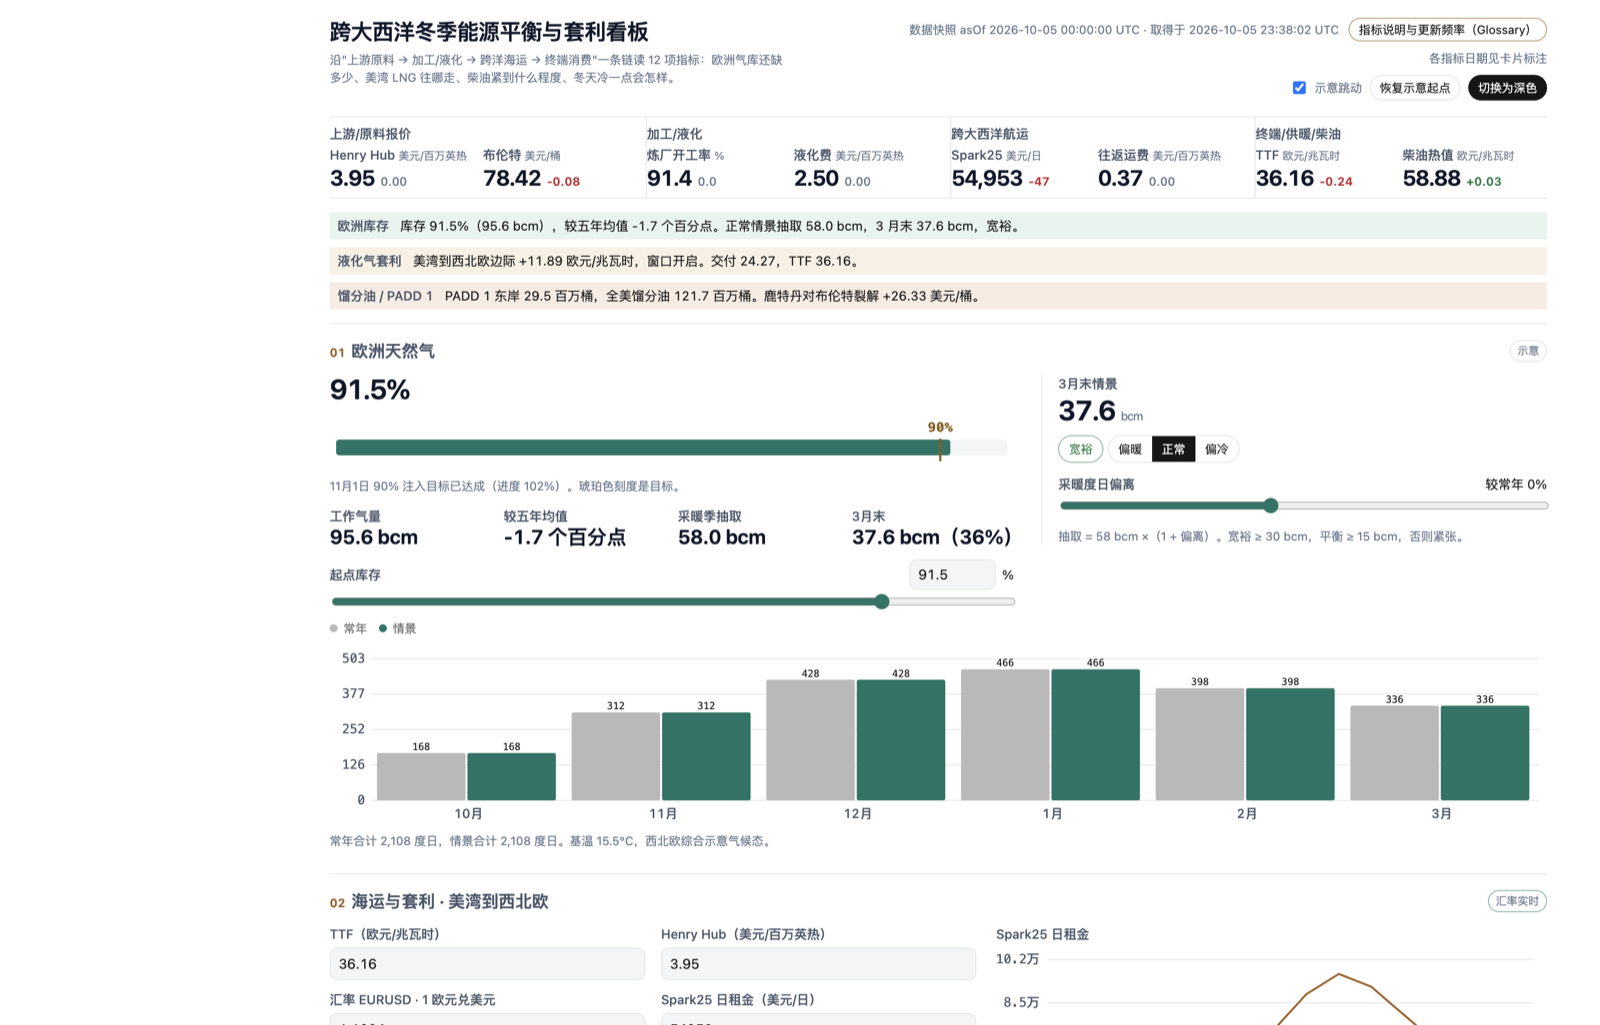
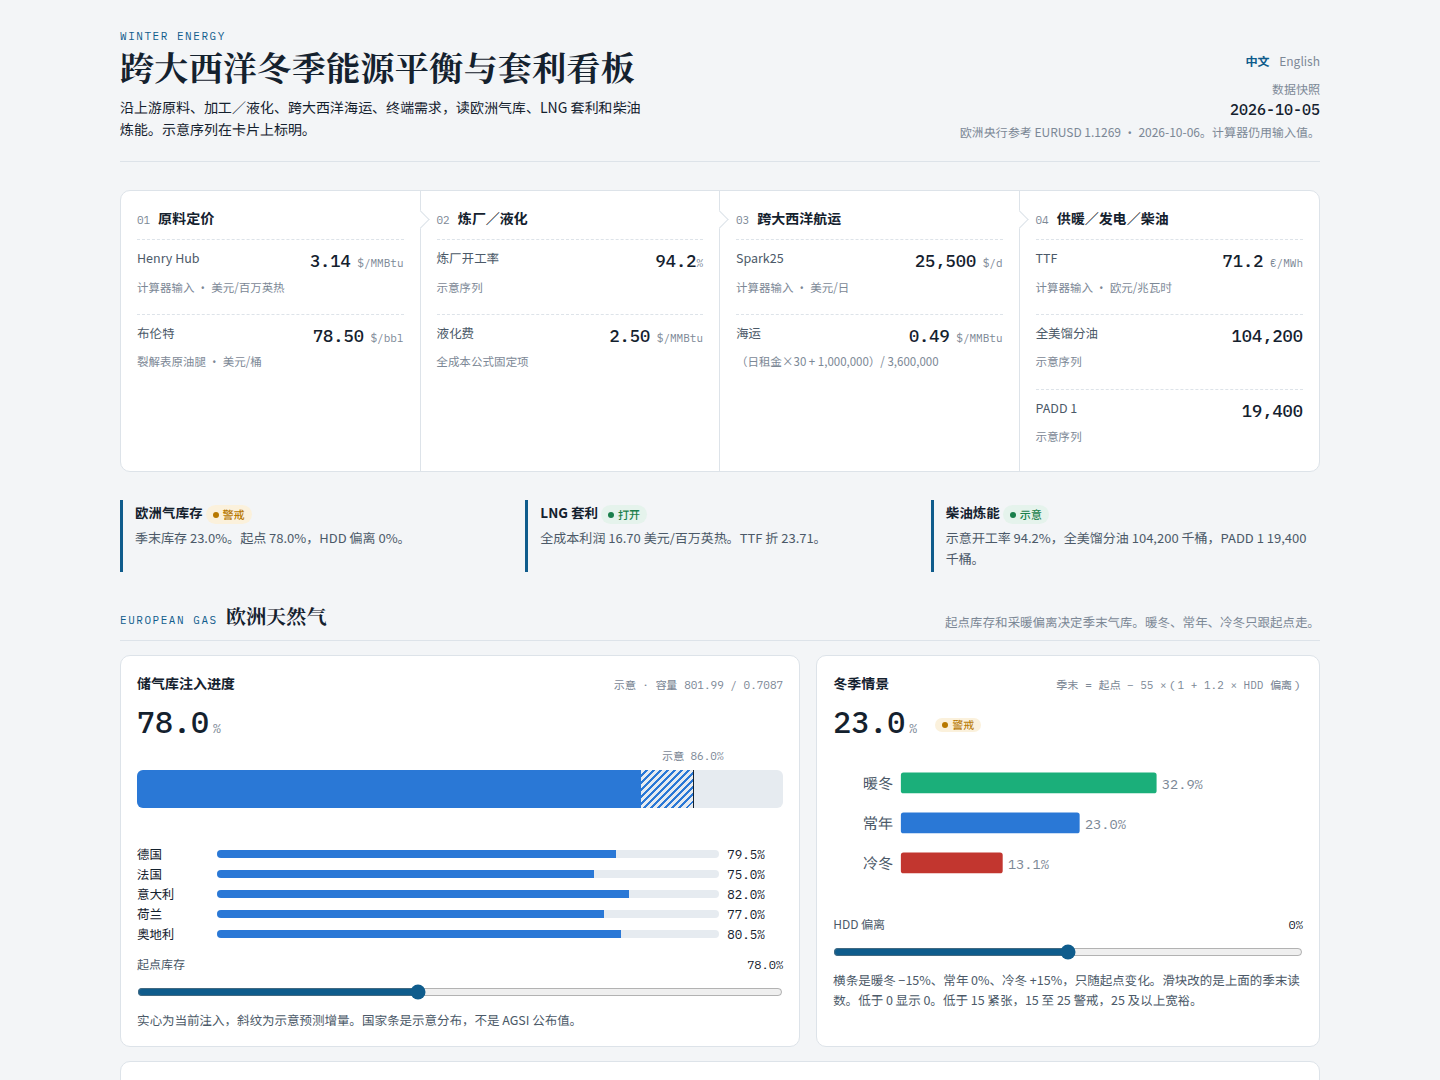
Refresh Transatlantic Energy copy and cover for the rebuilt desk.

diff --git a/docs/js/app.js b/docs/js/app.js
@@ -65,7 +65,7 @@
         "A local investment journal. Log trades, keep principles, review the quality of decisions — data stays in the browser.",
       p_energy_title: "Transatlantic Energy",
       p_energy_desc:
-        "Winter energy balance and LNG arbitrage across the Atlantic — TTF vs Henry Hub, inventory, and the window that opens the trade.",
+        "A bilingual winter desk: European storage, USG–NWE LNG arb, and distillate — from feedstock through Atlantic freight.",
       p_sql_title: "SQL Genius",
       p_sql_desc: "Ask a business question in plain language — get the metric, the query, and the answer.",
       p_air_title: "Airfield Hazards",
@@ -210,7 +210,7 @@
         "An editorial journal with a magazine layout. Volume 01 now holds twenty essays — cycles, risk, investing, and how to decide.",
       proj_notes_tech: "Next.js, TypeScript, Python",
       proj_energy_desc:
-        "A decision desk for winter energy: 12 indicators along the chain from feedstock to heating. Read European storage, Gulf Coast LNG, distillate tightness, and how a colder winter changes the TTF–Henry Hub window.",
+        "One desk for the winter chain. Storage versus heating-degree days, a USG-to-NWE LNG waterfall, and distillate tightness. Chinese and English. Snapshot numbers live in data.json; ECB FX via Frankfurter is a footnote, not the trade.",
       proj_energy_tech: "HTML, JSON, Frankfurter (ECB FX)",
       proj_zen_desc:
         "A local investment journal for logging trades, keeping principles, and reviewing the quality of decisions. Dashboard, trade log, diary, and review filters — stored in the browser. No signup, no cloud.",
@@ -297,7 +297,7 @@
       p_zen_title: "观市",
       p_zen_desc: "极简本地投资手帐。记录交易、沉淀原则、复盘决策质量。数据只存在浏览器里，无需注册。",
       p_energy_title: "跨大西洋能源看板",
-      p_energy_desc: "冬季能源平衡与跨大西洋 LNG 套利：TTF 对 Henry Hub、库存，以及窗口何时打开。",
+      p_energy_desc: "中英双语的冬季能源决策台：欧洲气库、美湾到西北欧 LNG 套利、柴油炼能——从原料读到跨大西洋海运。",
       p_sql_title: "SQL Genius",
       p_sql_desc: "用白话提出业务问题，同时得到指标、查询语句和结果。",
       p_air_title: "机场鸟击风险",
@@ -416,7 +416,7 @@
         "极简杂志风的私人读书笔记：纸张色、大留白、卡片错落。目前第一辑二十篇，记录周期、风险、投资与如何做判断。",
       proj_notes_tech: "Next.js、TypeScript、Python",
       proj_energy_desc:
-        "冬季能源的决策台：沿原料到供暖链路上的 12 项指标。看欧洲库存、墨西哥湾 LNG、馏分油紧度，以及更冷的冬天如何改写 TTF–Henry Hub 窗口。",
+        "一张决策台读完冬季链路：气库对采暖度日、美湾到西北欧的 LNG 套利瀑布、柴油炼能。中英切换。快照在 data.json；欧洲央行汇率只作旁注，不改写交易口径。",
       proj_energy_tech: "HTML、JSON、Frankfurter（ECB 汇率）",
       proj_zen_desc:
         "极简本地投资手帐：仪表盘、交易记录、原则、日记与复盘。用来沉淀决策质量。数据只存在浏览器里，无需注册。",

diff --git a/docs/js/site.js b/docs/js/site.js
@@ -65,7 +65,7 @@
         "A local investment journal. Log trades, keep principles, review the quality of decisions — data stays in the browser.",
       p_energy_title: "Transatlantic Energy",
       p_energy_desc:
-        "Winter energy balance and LNG arbitrage across the Atlantic — TTF vs Henry Hub, inventory, and the window that opens the trade.",
+        "A bilingual winter desk: European storage, USG–NWE LNG arb, and distillate — from feedstock through Atlantic freight.",
       p_sql_title: "SQL Genius",
       p_sql_desc: "Ask a business question in plain language — get the metric, the query, and the answer.",
       p_air_title: "Airfield Hazards",
@@ -210,7 +210,7 @@
         "An editorial journal with a magazine layout. Volume 01 now holds twenty essays — cycles, risk, investing, and how to decide.",
       proj_notes_tech: "Next.js, TypeScript, Python",
       proj_energy_desc:
-        "A decision desk for winter energy: 12 indicators along the chain from feedstock to heating. Read European storage, Gulf Coast LNG, distillate tightness, and how a colder winter changes the TTF–Henry Hub window.",
+        "One desk for the winter chain. Storage versus heating-degree days, a USG-to-NWE LNG waterfall, and distillate tightness. Chinese and English. Snapshot numbers live in data.json; ECB FX via Frankfurter is a footnote, not the trade.",
       proj_energy_tech: "HTML, JSON, Frankfurter (ECB FX)",
       proj_zen_desc:
         "A local investment journal for logging trades, keeping principles, and reviewing the quality of decisions. Dashboard, trade log, diary, and review filters — stored in the browser. No signup, no cloud.",
@@ -297,7 +297,7 @@
       p_zen_title: "观市",
       p_zen_desc: "极简本地投资手帐。记录交易、沉淀原则、复盘决策质量。数据只存在浏览器里，无需注册。",
       p_energy_title: "跨大西洋能源看板",
-      p_energy_desc: "冬季能源平衡与跨大西洋 LNG 套利：TTF 对 Henry Hub、库存，以及窗口何时打开。",
+      p_energy_desc: "中英双语的冬季能源决策台：欧洲气库、美湾到西北欧 LNG 套利、柴油炼能——从原料读到跨大西洋海运。",
       p_sql_title: "SQL Genius",
       p_sql_desc: "用白话提出业务问题，同时得到指标、查询语句和结果。",
       p_air_title: "机场鸟击风险",
@@ -416,7 +416,7 @@
         "极简杂志风的私人读书笔记：纸张色、大留白、卡片错落。目前第一辑二十篇，记录周期、风险、投资与如何做判断。",
       proj_notes_tech: "Next.js、TypeScript、Python",
       proj_energy_desc:
-        "冬季能源的决策台：沿原料到供暖链路上的 12 项指标。看欧洲库存、墨西哥湾 LNG、馏分油紧度，以及更冷的冬天如何改写 TTF–Henry Hub 窗口。",
+        "一张决策台读完冬季链路：气库对采暖度日、美湾到西北欧的 LNG 套利瀑布、柴油炼能。中英切换。快照在 data.json；欧洲央行汇率只作旁注，不改写交易口径。",
       proj_energy_tech: "HTML、JSON、Frankfurter（ECB 汇率）",
       proj_zen_desc:
         "极简本地投资手帐：仪表盘、交易记录、原则、日记与复盘。用来沉淀决策质量。数据只存在浏览器里，无需注册。",

diff --git a/js/app.js b/js/app.js
@@ -65,7 +65,7 @@
         "A local investment journal. Log trades, keep principles, review the quality of decisions — data stays in the browser.",
       p_energy_title: "Transatlantic Energy",
       p_energy_desc:
-        "Winter energy balance and LNG arbitrage across the Atlantic — TTF vs Henry Hub, inventory, and the window that opens the trade.",
+        "A bilingual winter desk: European storage, USG–NWE LNG arb, and distillate — from feedstock through Atlantic freight.",
       p_sql_title: "SQL Genius",
       p_sql_desc: "Ask a business question in plain language — get the metric, the query, and the answer.",
       p_air_title: "Airfield Hazards",
@@ -210,7 +210,7 @@
         "An editorial journal with a magazine layout. Volume 01 now holds twenty essays — cycles, risk, investing, and how to decide.",
       proj_notes_tech: "Next.js, TypeScript, Python",
       proj_energy_desc:
-        "A decision desk for winter energy: 12 indicators along the chain from feedstock to heating. Read European storage, Gulf Coast LNG, distillate tightness, and how a colder winter changes the TTF–Henry Hub window.",
+        "One desk for the winter chain. Storage versus heating-degree days, a USG-to-NWE LNG waterfall, and distillate tightness. Chinese and English. Snapshot numbers live in data.json; ECB FX via Frankfurter is a footnote, not the trade.",
       proj_energy_tech: "HTML, JSON, Frankfurter (ECB FX)",
       proj_zen_desc:
         "A local investment journal for logging trades, keeping principles, and reviewing the quality of decisions. Dashboard, trade log, diary, and review filters — stored in the browser. No signup, no cloud.",
@@ -297,7 +297,7 @@
       p_zen_title: "观市",
       p_zen_desc: "极简本地投资手帐。记录交易、沉淀原则、复盘决策质量。数据只存在浏览器里，无需注册。",
       p_energy_title: "跨大西洋能源看板",
-      p_energy_desc: "冬季能源平衡与跨大西洋 LNG 套利：TTF 对 Henry Hub、库存，以及窗口何时打开。",
+      p_energy_desc: "中英双语的冬季能源决策台：欧洲气库、美湾到西北欧 LNG 套利、柴油炼能——从原料读到跨大西洋海运。",
       p_sql_title: "SQL Genius",
       p_sql_desc: "用白话提出业务问题，同时得到指标、查询语句和结果。",
       p_air_title: "机场鸟击风险",
@@ -416,7 +416,7 @@
         "极简杂志风的私人读书笔记：纸张色、大留白、卡片错落。目前第一辑二十篇，记录周期、风险、投资与如何做判断。",
       proj_notes_tech: "Next.js、TypeScript、Python",
       proj_energy_desc:
-        "冬季能源的决策台：沿原料到供暖链路上的 12 项指标。看欧洲库存、墨西哥湾 LNG、馏分油紧度，以及更冷的冬天如何改写 TTF–Henry Hub 窗口。",
+        "一张决策台读完冬季链路：气库对采暖度日、美湾到西北欧的 LNG 套利瀑布、柴油炼能。中英切换。快照在 data.json；欧洲央行汇率只作旁注，不改写交易口径。",
       proj_energy_tech: "HTML、JSON、Frankfurter（ECB 汇率）",
       proj_zen_desc:
         "极简本地投资手帐：仪表盘、交易记录、原则、日记与复盘。用来沉淀决策质量。数据只存在浏览器里，无需注册。",

diff --git a/js/site.js b/js/site.js
@@ -65,7 +65,7 @@
         "A local investment journal. Log trades, keep principles, review the quality of decisions — data stays in the browser.",
       p_energy_title: "Transatlantic Energy",
       p_energy_desc:
-        "Winter energy balance and LNG arbitrage across the Atlantic — TTF vs Henry Hub, inventory, and the window that opens the trade.",
+        "A bilingual winter desk: European storage, USG–NWE LNG arb, and distillate — from feedstock through Atlantic freight.",
       p_sql_title: "SQL Genius",
       p_sql_desc: "Ask a business question in plain language — get the metric, the query, and the answer.",
       p_air_title: "Airfield Hazards",
@@ -210,7 +210,7 @@
         "An editorial journal with a magazine layout. Volume 01 now holds twenty essays — cycles, risk, investing, and how to decide.",
       proj_notes_tech: "Next.js, TypeScript, Python",
       proj_energy_desc:
-        "A decision desk for winter energy: 12 indicators along the chain from feedstock to heating. Read European storage, Gulf Coast LNG, distillate tightness, and how a colder winter changes the TTF–Henry Hub window.",
+        "One desk for the winter chain. Storage versus heating-degree days, a USG-to-NWE LNG waterfall, and distillate tightness. Chinese and English. Snapshot numbers live in data.json; ECB FX via Frankfurter is a footnote, not the trade.",
       proj_energy_tech: "HTML, JSON, Frankfurter (ECB FX)",
       proj_zen_desc:
         "A local investment journal for logging trades, keeping principles, and reviewing the quality of decisions. Dashboard, trade log, diary, and review filters — stored in the browser. No signup, no cloud.",
@@ -297,7 +297,7 @@
       p_zen_title: "观市",
       p_zen_desc: "极简本地投资手帐。记录交易、沉淀原则、复盘决策质量。数据只存在浏览器里，无需注册。",
       p_energy_title: "跨大西洋能源看板",
-      p_energy_desc: "冬季能源平衡与跨大西洋 LNG 套利：TTF 对 Henry Hub、库存，以及窗口何时打开。",
+      p_energy_desc: "中英双语的冬季能源决策台：欧洲气库、美湾到西北欧 LNG 套利、柴油炼能——从原料读到跨大西洋海运。",
       p_sql_title: "SQL Genius",
       p_sql_desc: "用白话提出业务问题，同时得到指标、查询语句和结果。",
       p_air_title: "机场鸟击风险",
@@ -416,7 +416,7 @@
         "极简杂志风的私人读书笔记：纸张色、大留白、卡片错落。目前第一辑二十篇，记录周期、风险、投资与如何做判断。",
       proj_notes_tech: "Next.js、TypeScript、Python",
       proj_energy_desc:
-        "冬季能源的决策台：沿原料到供暖链路上的 12 项指标。看欧洲库存、墨西哥湾 LNG、馏分油紧度，以及更冷的冬天如何改写 TTF–Henry Hub 窗口。",
+        "一张决策台读完冬季链路：气库对采暖度日、美湾到西北欧的 LNG 套利瀑布、柴油炼能。中英切换。快照在 data.json；欧洲央行汇率只作旁注，不改写交易口径。",
       proj_energy_tech: "HTML、JSON、Frankfurter（ECB 汇率）",
       proj_zen_desc:
         "极简本地投资手帐：仪表盘、交易记录、原则、日记与复盘。用来沉淀决策质量。数据只存在浏览器里，无需注册。",

diff --git a/docs/projects.html b/docs/projects.html
@@ -139,12 +139,12 @@ ul.task-list li input[type="checkbox"] {
 
   <div class="project-grid">
     <article class="project-card">
-      <div class="project-media is-cover"><img src="img/energy.png?v=20261005" alt=""></div>
+      <div class="project-media is-cover"><img src="img/energy.png?v=20261007" alt=""></div>
       <div class="project-body">
         <h3 data-i18n="p_energy_title">Transatlantic Energy</h3>
-        <p data-i18n="proj_energy_desc">A decision desk for winter energy: 12 indicators along the chain from feedstock to heating. Read European storage, Gulf Coast LNG, distillate tightness, and how a colder winter changes the TTF–Henry Hub window.</p>
+        <p data-i18n="proj_energy_desc">One desk for the winter chain. Storage versus heating-degree days, a USG-to-NWE LNG waterfall, and distillate tightness. Chinese and English. Snapshot numbers live in data.json; ECB FX via Frankfurter is a footnote, not the trade.</p>
         <p class="meta"><span data-i18n="tech">Tech</span>: <span data-i18n="proj_energy_tech">HTML, JSON, Frankfurter (ECB FX)</span></p>
-        <div class="pills"><span class="pill">Energy</span><span class="pill">Arbitrage</span><span class="pill">TTF / HH</span></div>
+        <div class="pills"><span class="pill">Energy</span><span class="pill">LNG</span><span class="pill">Distillate</span></div>
         <div class="project-links">
           <a href="https://iris0614.github.io/energy-dashboard/" target="_blank" rel="noopener noreferrer" data-i18n="live">Live</a>
           <a href="https://github.com/iris0614/energy-dashboard" target="_blank" rel="noopener noreferrer" data-i18n="github">GitHub</a>
@@ -273,7 +273,7 @@ ul.task-list li input[type="checkbox"] {
 
 
 
-<script src="js/app.js?v=20261005-nocrypto"></script>
+<script src="js/app.js?v=20261007-energy"></script>
 <script id="quarto-html-after-body" type="application/javascript">
 window.document.addEventListener("DOMContentLoaded", function (event) {
   const toggleBodyColorMode = (bsSheetEl) => {

diff --git a/docs/index.html b/docs/index.html
@@ -216,11 +216,11 @@ ul.task-list li input[type="checkbox"] {
     </div>
     <div class="project-grid">
       <article class="project-card">
-        <div class="project-media is-cover"><img src="img/energy.png?v=20261005" alt=""></div>
+        <div class="project-media is-cover"><img src="img/energy.png?v=20261007" alt=""></div>
         <div class="project-body">
           <h3 data-i18n="p_energy_title">Transatlantic Energy</h3>
-          <p data-i18n="p_energy_desc">Winter energy balance and LNG arbitrage across the Atlantic — TTF vs Henry Hub, inventory, and the window that opens the trade.</p>
-          <div class="pills"><span class="pill">Energy</span><span class="pill">Arbitrage</span><span class="pill">TTF / HH</span></div>
+          <p data-i18n="p_energy_desc">A bilingual winter desk: European storage, USG–NWE LNG arb, and distillate — from feedstock through Atlantic freight.</p>
+          <div class="pills"><span class="pill">Energy</span><span class="pill">LNG</span><span class="pill">Distillate</span></div>
           <div class="project-links">
             <a href="https://iris0614.github.io/energy-dashboard/" target="_blank" rel="noopener noreferrer" data-i18n="live">Live</a>
             <a href="https://github.com/iris0614/energy-dashboard" target="_blank" rel="noopener noreferrer" data-i18n="github">GitHub</a>
@@ -340,7 +340,7 @@ ul.task-list li input[type="checkbox"] {
 
 
 
-<script src="js/app.js?v=20261005-nocrypto"></script>
+<script src="js/app.js?v=20261007-energy"></script>
 <script id="quarto-html-after-body" type="application/javascript">
 window.document.addEventListener("DOMContentLoaded", function (event) {
   const toggleBodyColorMode = (bsSheetEl) => {

diff --git a/docs/about.html b/docs/about.html
@@ -309,7 +309,7 @@ ul.task-list li input[type="checkbox"] {
 
 
 
-<script src="js/app.js?v=20261005-nocrypto"></script>
+<script src="js/app.js?v=20261007-energy"></script>
 <script id="quarto-html-after-body" type="application/javascript">
 window.document.addEventListener("DOMContentLoaded", function (event) {
   const toggleBodyColorMode = (bsSheetEl) => {

diff --git a/includes/footer-scripts.html b/includes/footer-scripts.html
@@ -1,1 +1,1 @@
-<script src="js/app.js?v=20261005-nocrypto"></script>
+<script src="js/app.js?v=20261007-energy"></script>
